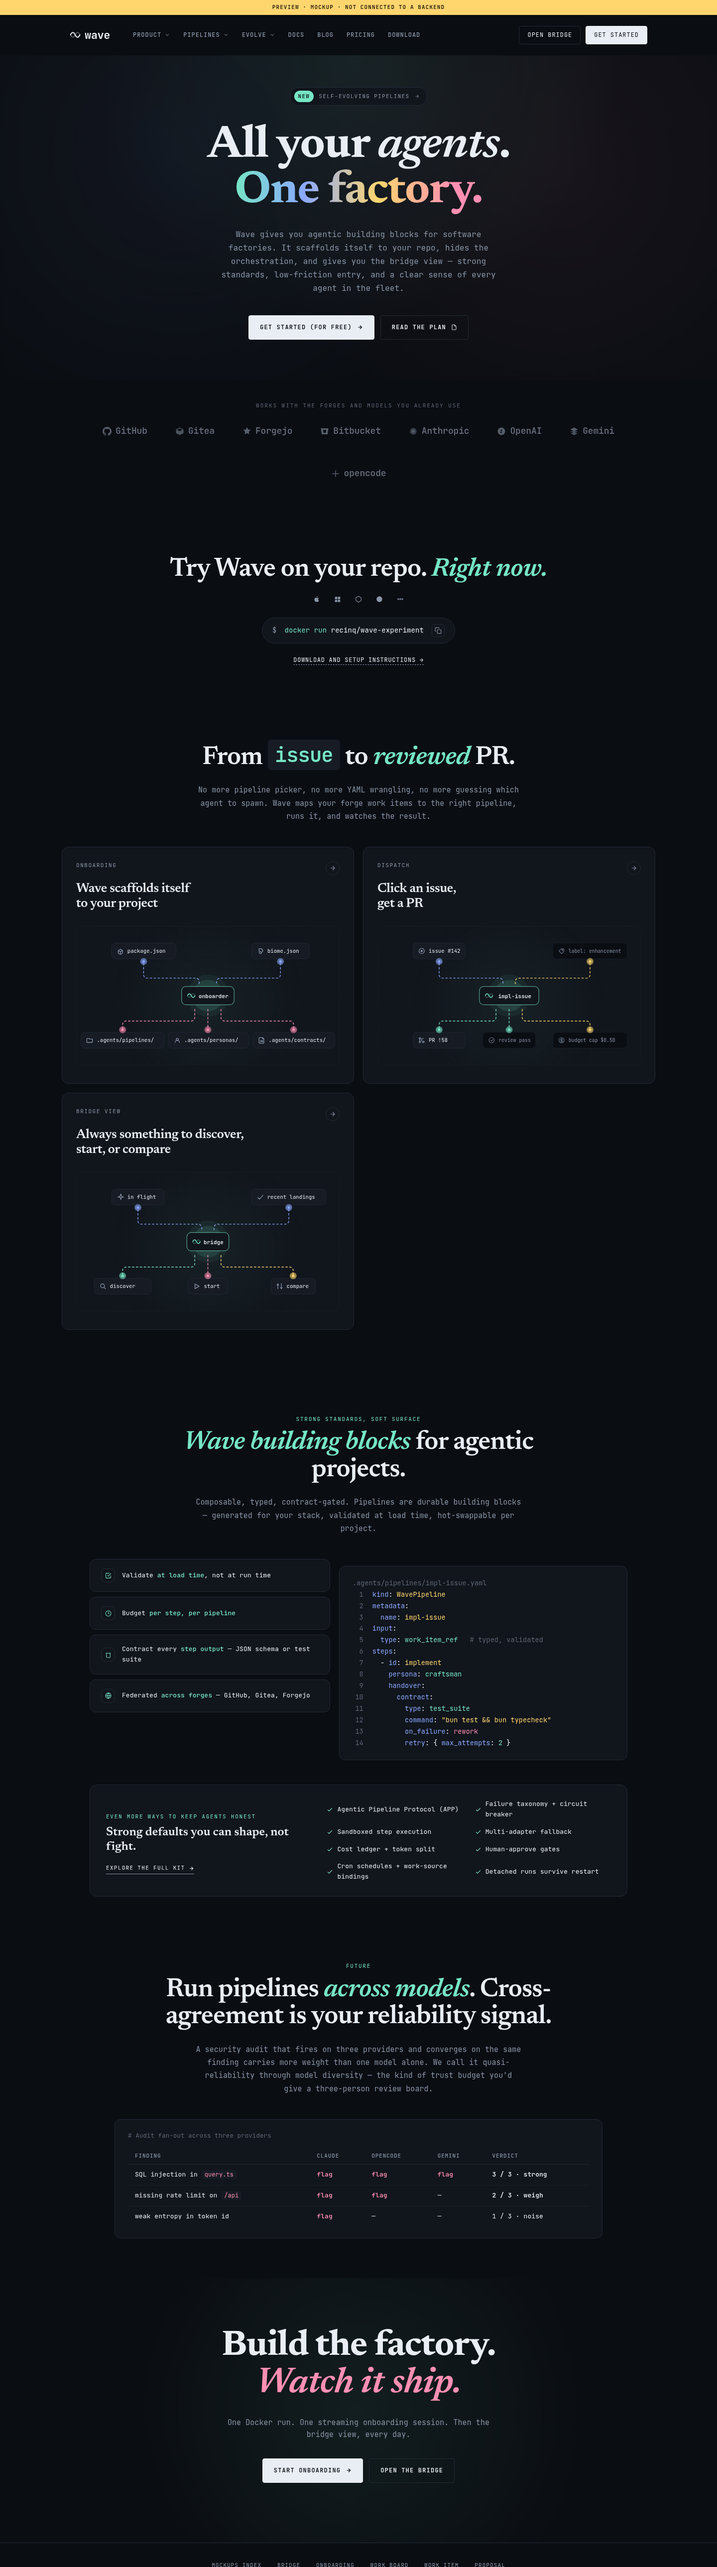
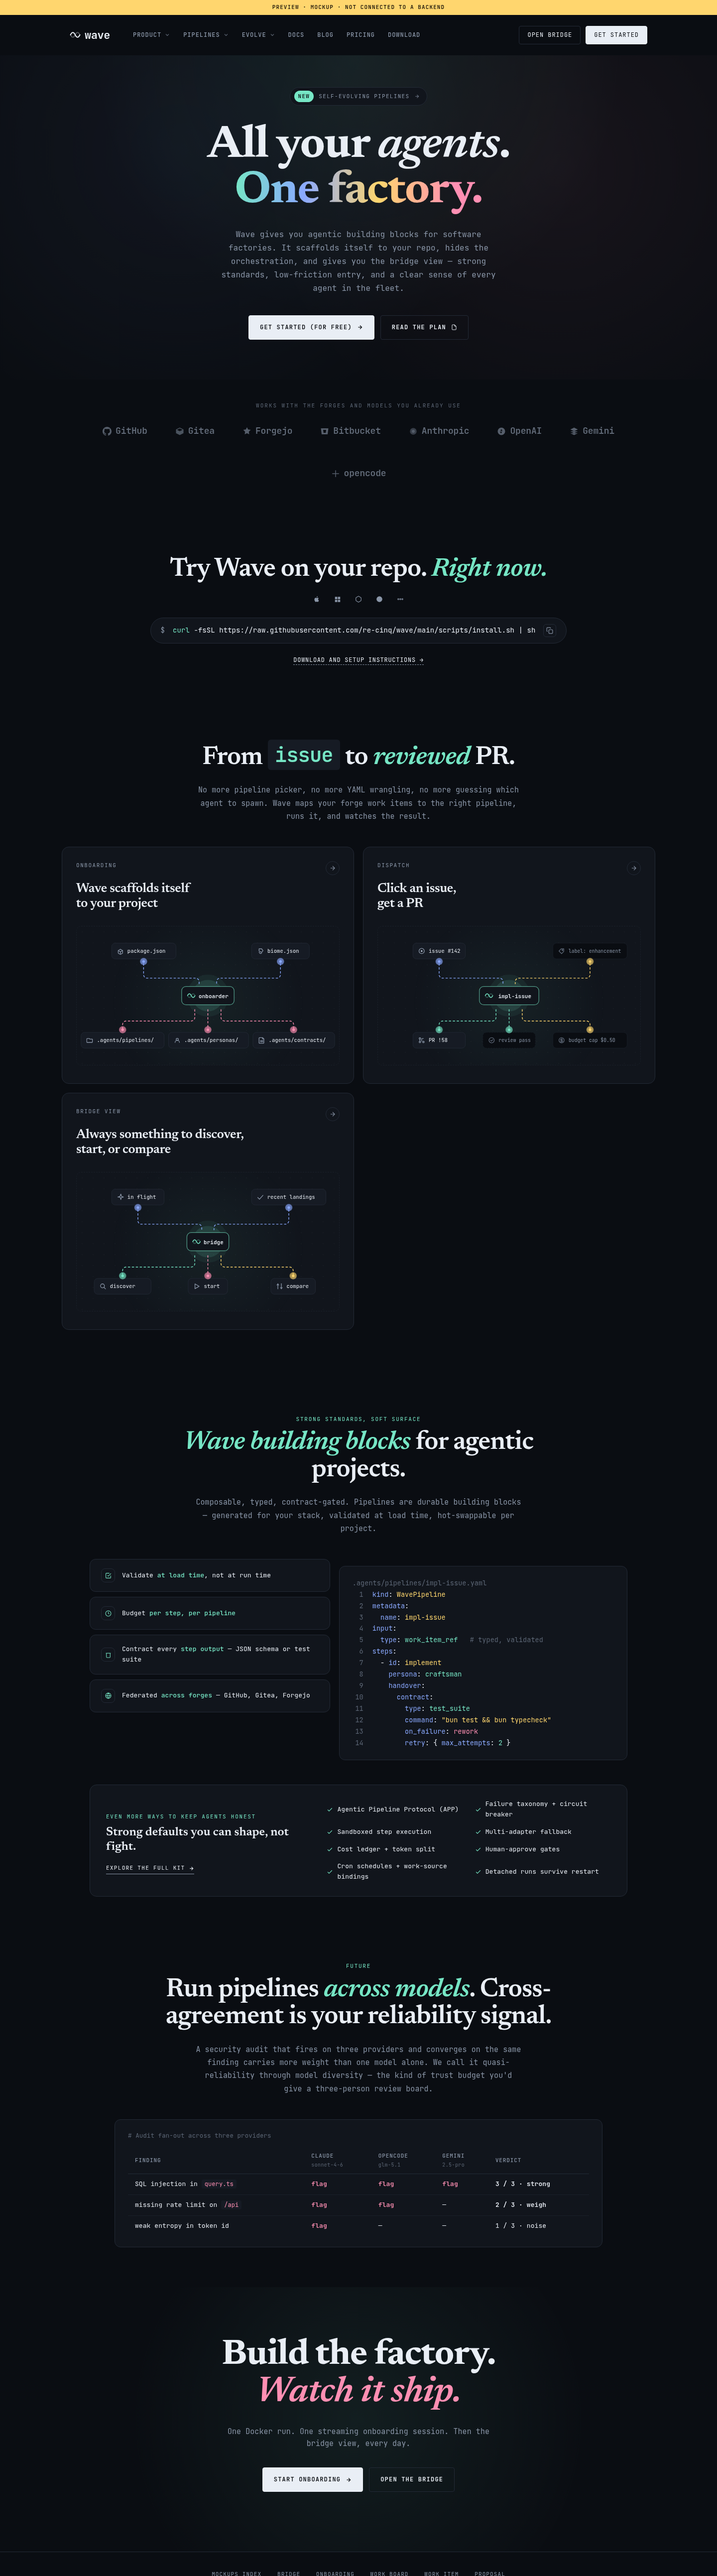
feat(mockups): use real install script + adapter/model sub-pills in audit table

diff --git a/docs/scope/mockups/public-landing.html b/docs/scope/mockups/public-landing.html
@@ -594,6 +594,7 @@
     }
     .audit-comment { color: var(--text-dim); margin-bottom: 14px; font-size: 12.5px; }
     .audit-table { width: 100%; border-collapse: collapse; }
+    .audit-table th .sub { color: var(--text-dim); font-weight: 400; font-size: 10px; letter-spacing: 0.04em; text-transform: none; display: inline-block; margin-top: 2px; }
     .audit-table th {
       text-align: left;
       padding: 8px 14px;
@@ -745,7 +746,7 @@
     </div>
     <div class="code-chip">
       <span class="prompt">$</span>
-      <span><span style="color: var(--accent);">docker run</span> recinq/wave-experiment</span>
+      <span><span style="color: var(--accent);">curl</span> -fsSL https://raw.githubusercontent.com/re-cinq/wave/main/scripts/install.sh | sh</span>
       <span class="copy" title="copy">
         <svg viewBox="0 0 24 24" fill="none" stroke="currentColor" stroke-width="2"><rect x="9" y="9" width="13" height="13" rx="2" /><path d="M5 15H4a2 2 0 0 1-2-2V4a2 2 0 0 1 2-2h9a2 2 0 0 1 2 2v1" /></svg>
       </span>
@@ -983,9 +984,9 @@
         <thead>
           <tr>
             <th>finding</th>
-            <th>claude</th>
-            <th>opencode</th>
-            <th>gemini</th>
+            <th>claude<br /><span class="sub">sonnet-4-6</span></th>
+            <th>opencode<br /><span class="sub">glm-5.1</span></th>
+            <th>gemini<br /><span class="sub">2.5-pro</span></th>
             <th>verdict</th>
           </tr>
         </thead>
